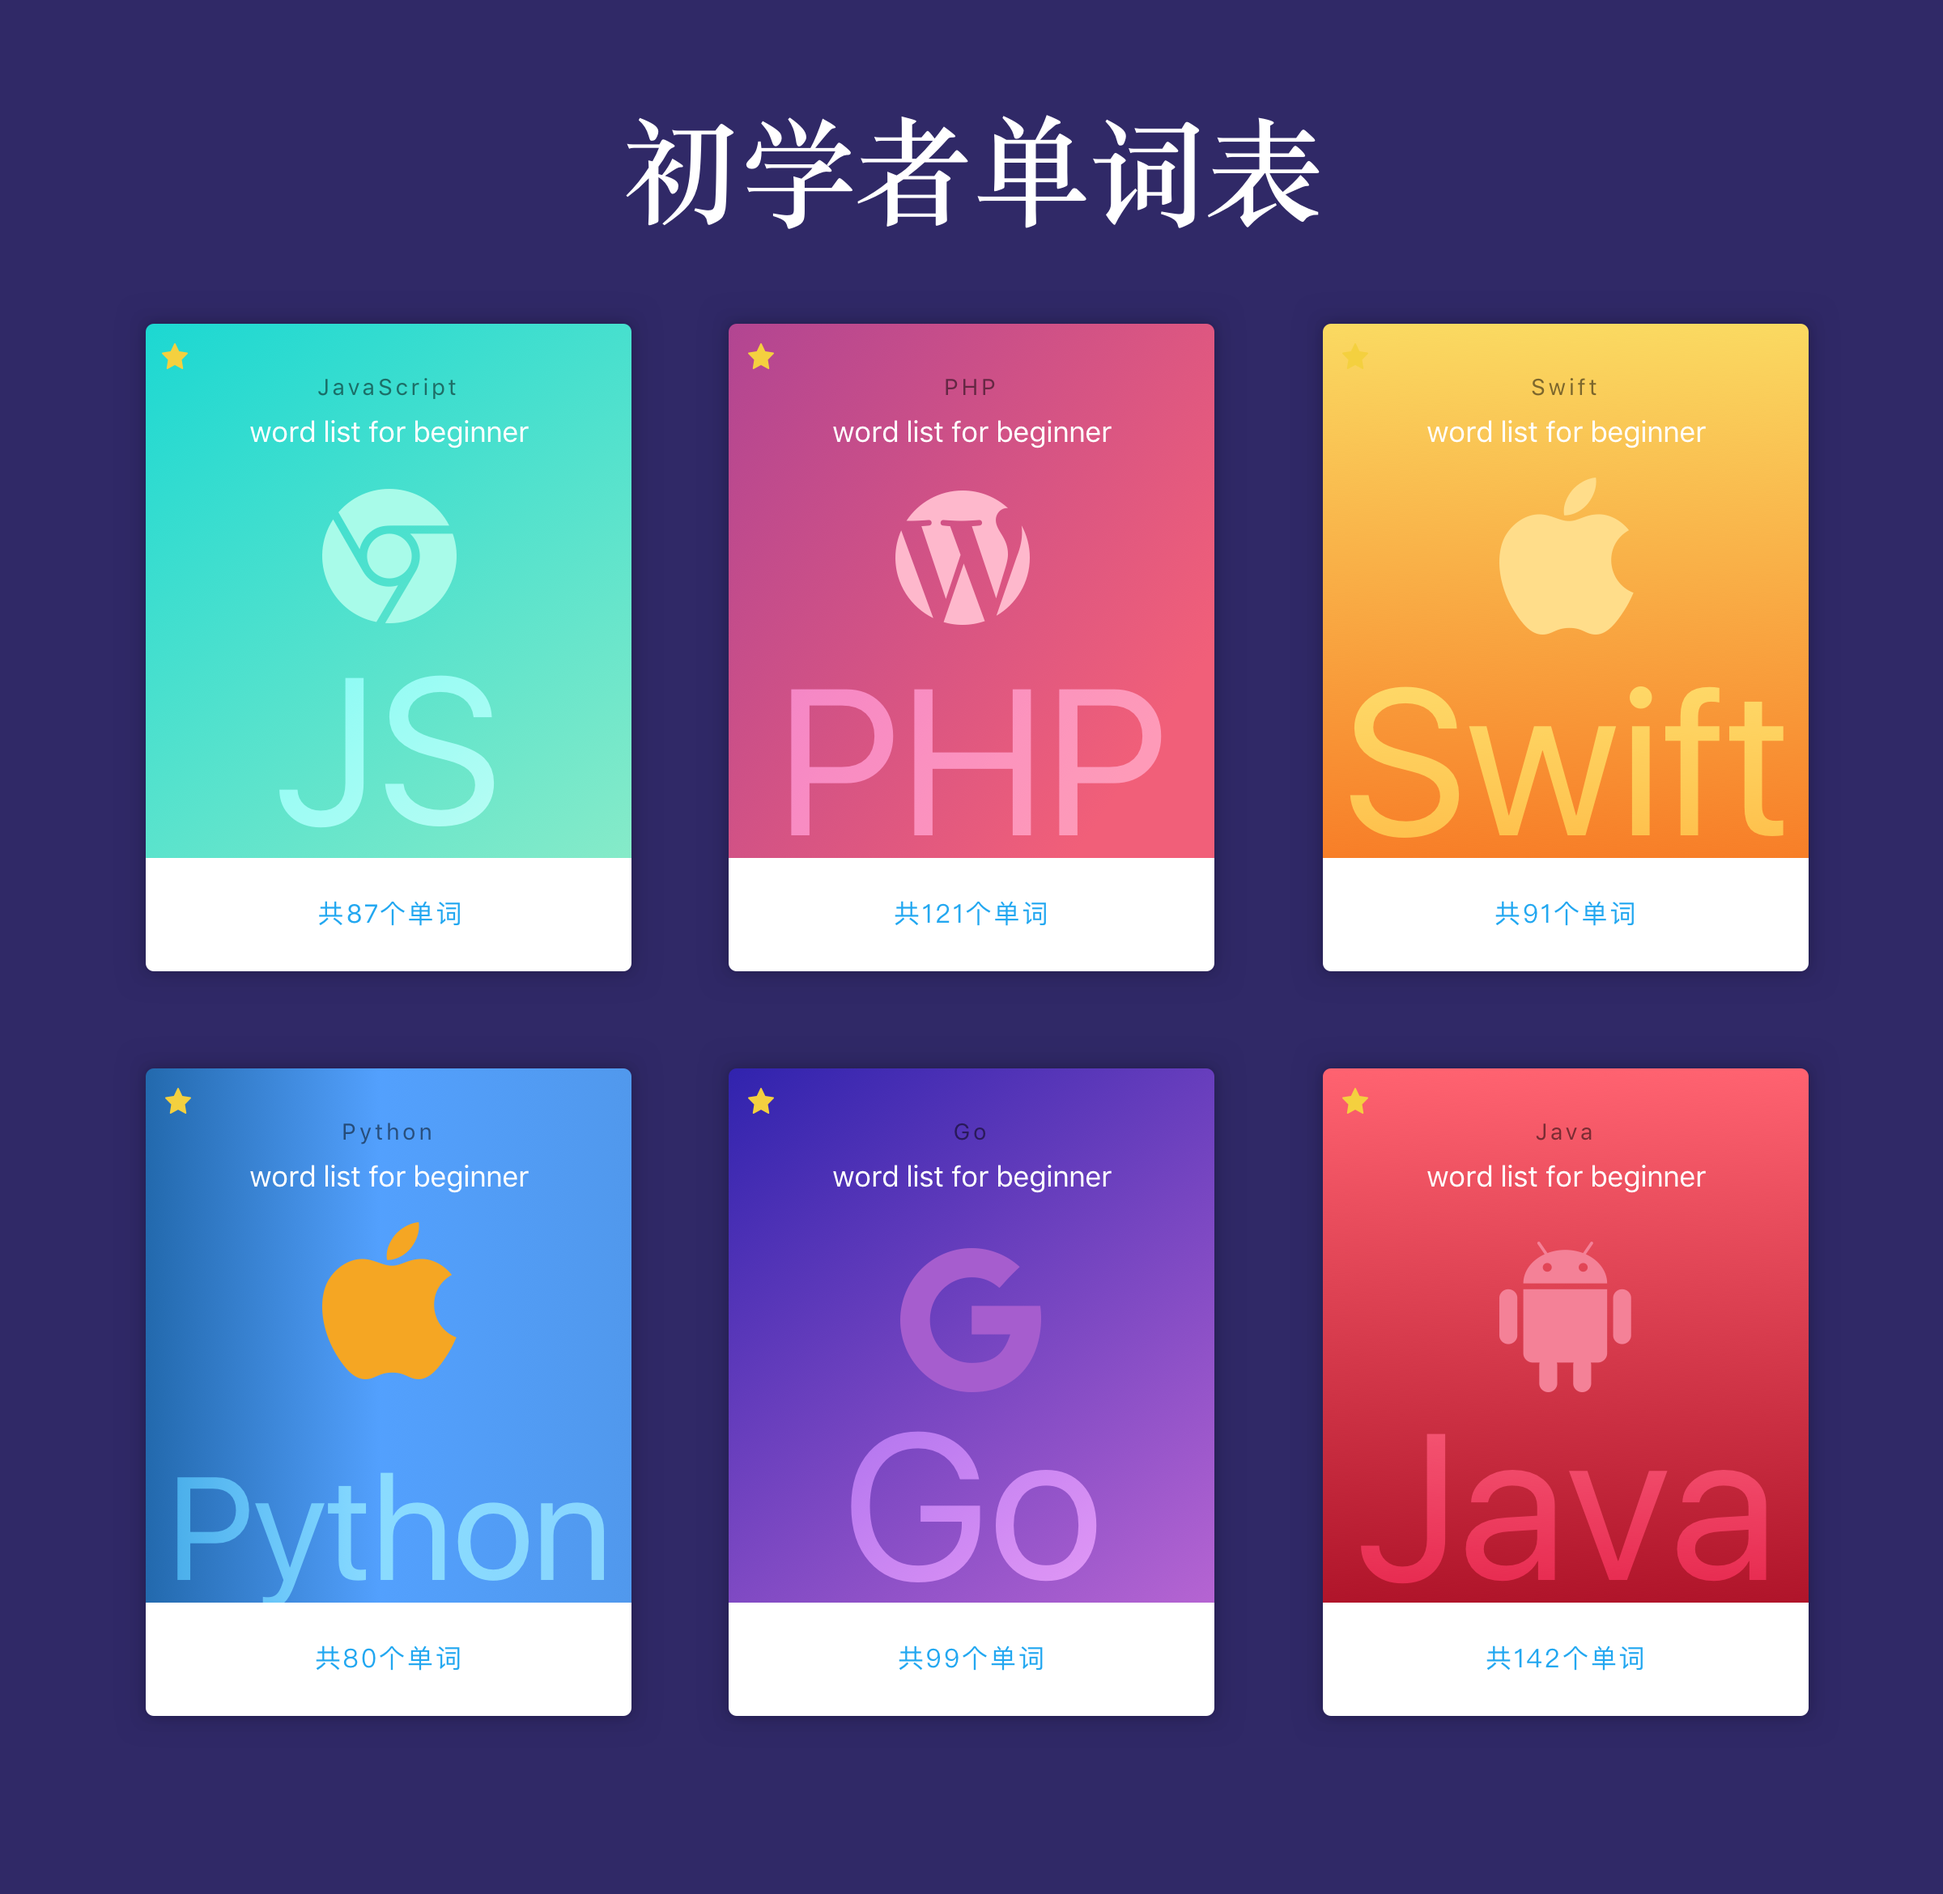
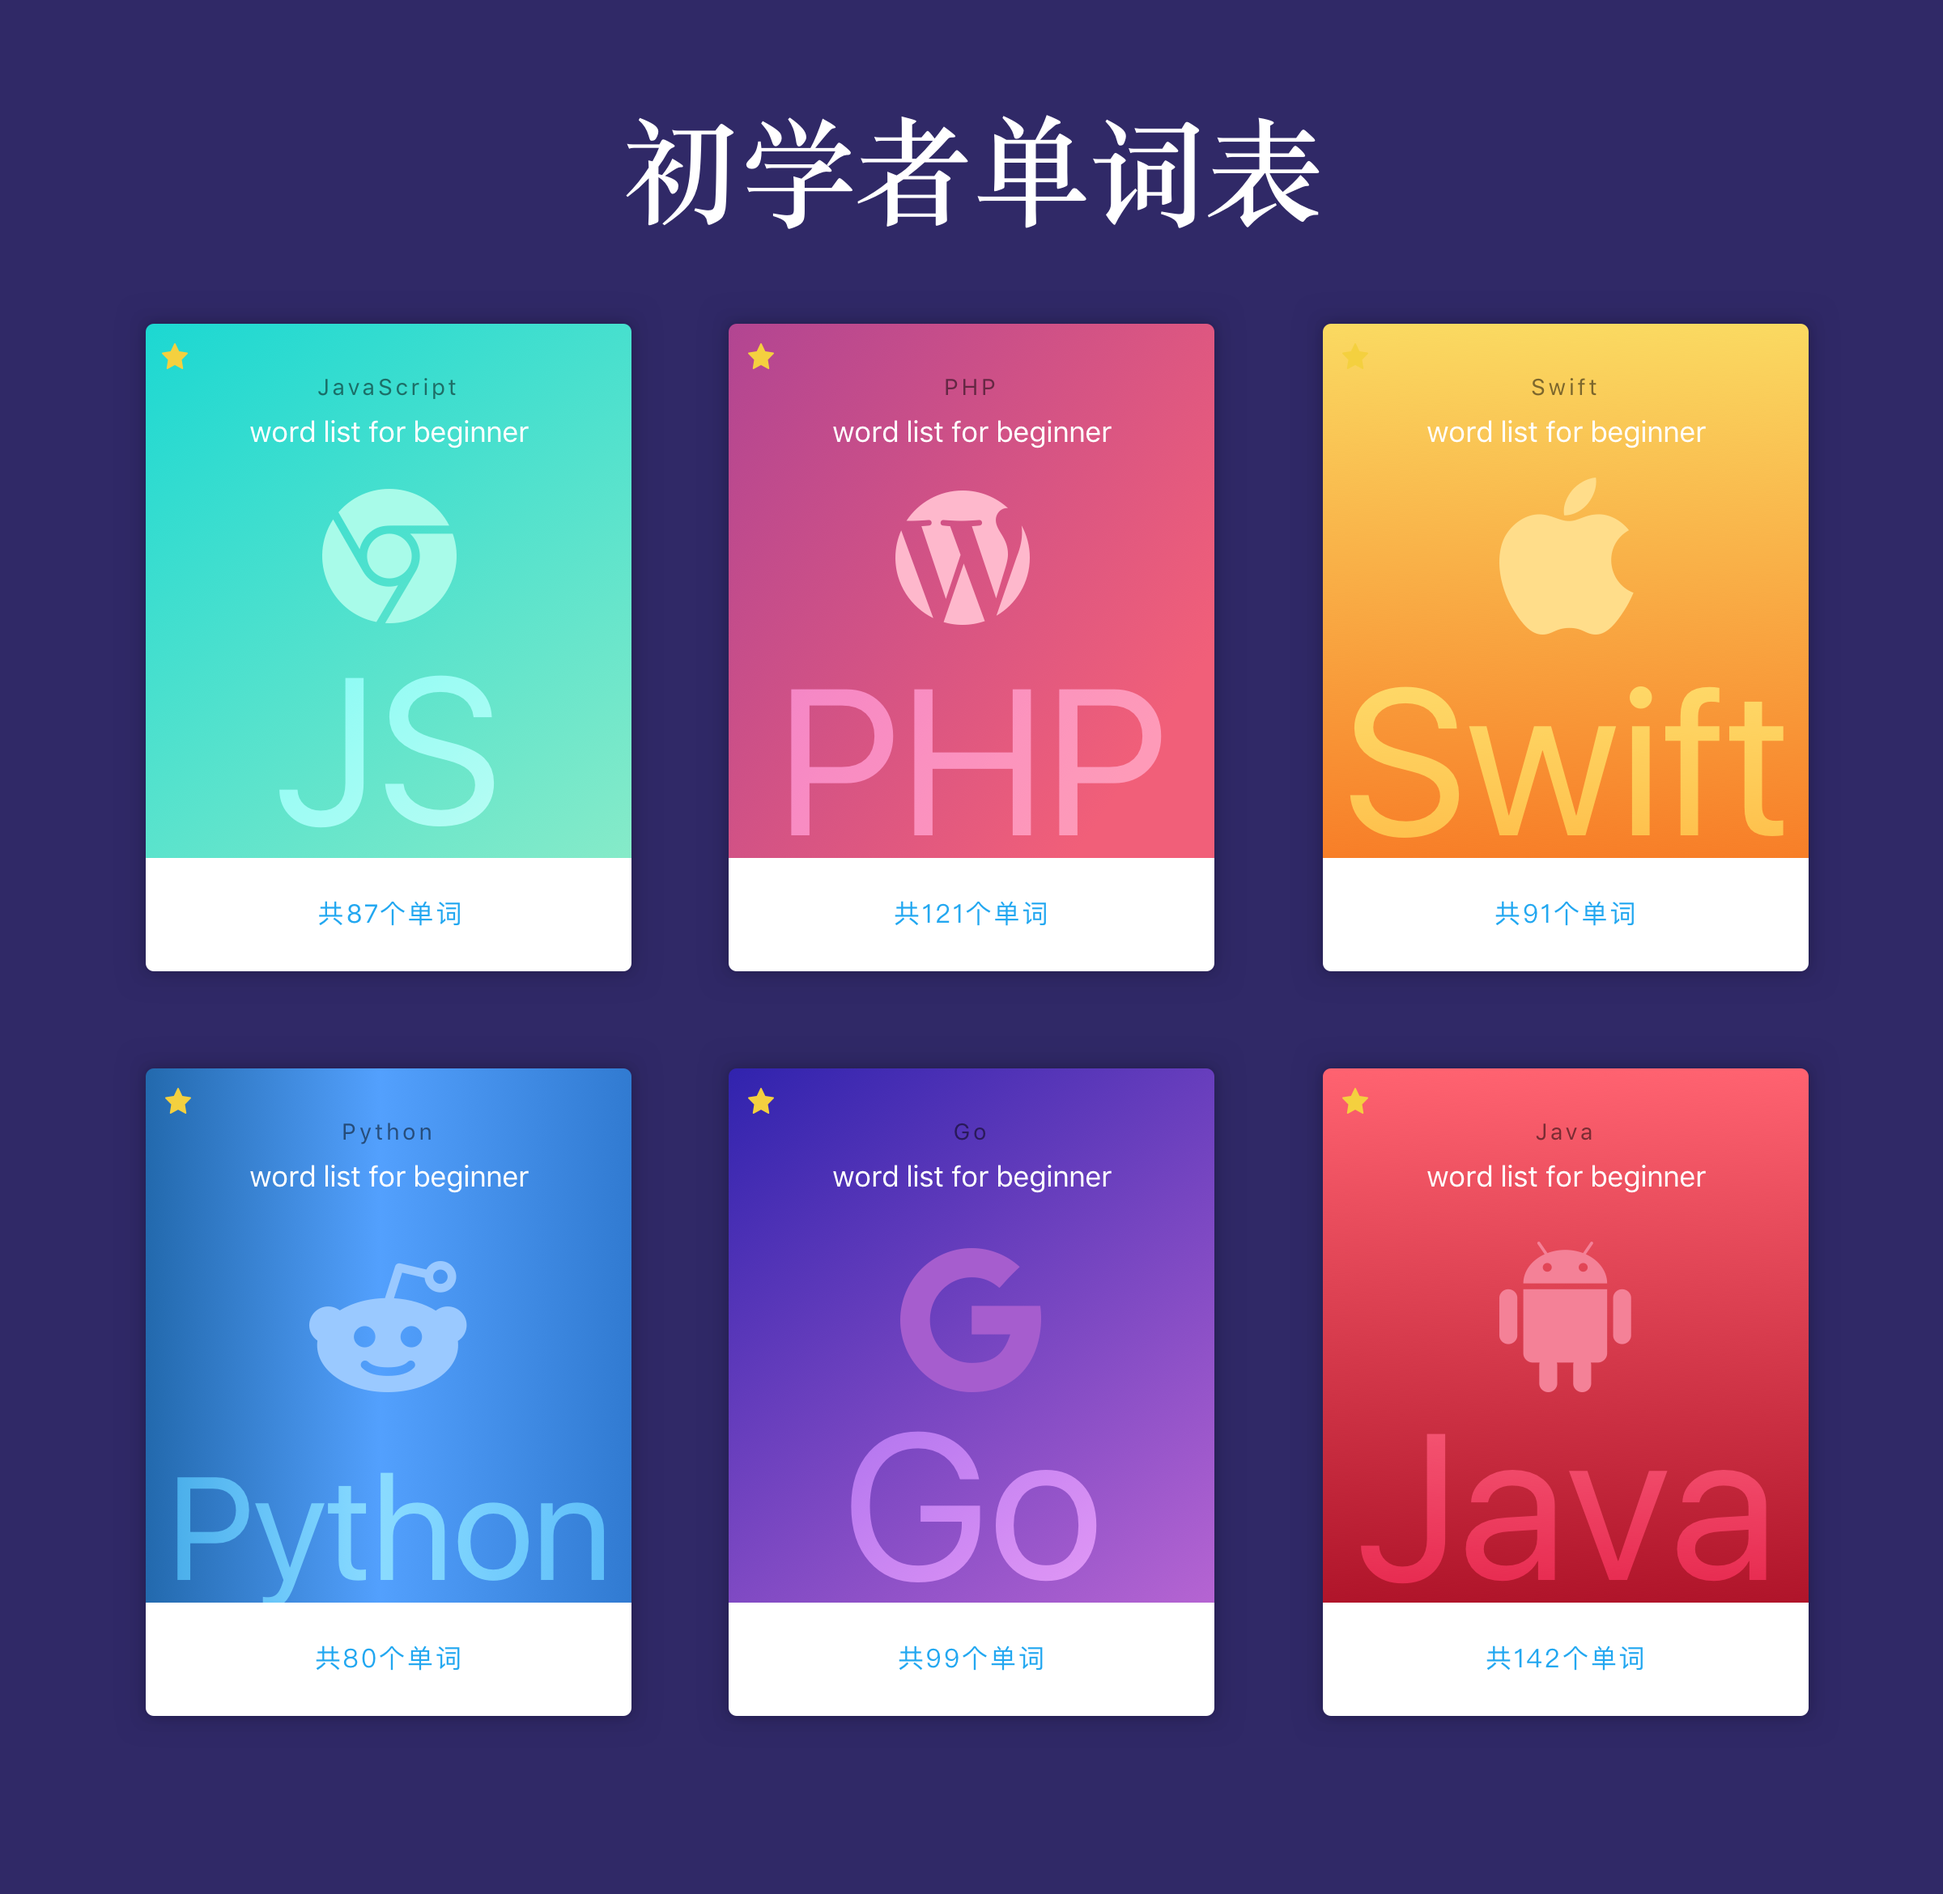
更新sketch文件

Changed region(s): [[0.25, 0.5615, 0.3438, 0.8423], [0.1562, 0.6551, 0.25, 0.7487]]

diff --git a/README.md b/README.md
@@ -32,7 +32,7 @@
 也不愿推荐几本语法书、写作书就草草了事，
 我需要一些时间去慢慢完善这个章节。
 
-![word-list@2x.png](https://ooo.0o0.ooo/2017/06/08/5938b016a6284.png)
+![word-list@2x.png](https://ooo.0o0.ooo/2017/06/08/5938b595a631a.png)
 
 这份单词表尽量涵盖时下流行的语言，目的是帮助你更方便的看英文文档。
 工程巨大，需要较长的时间进行整理。
